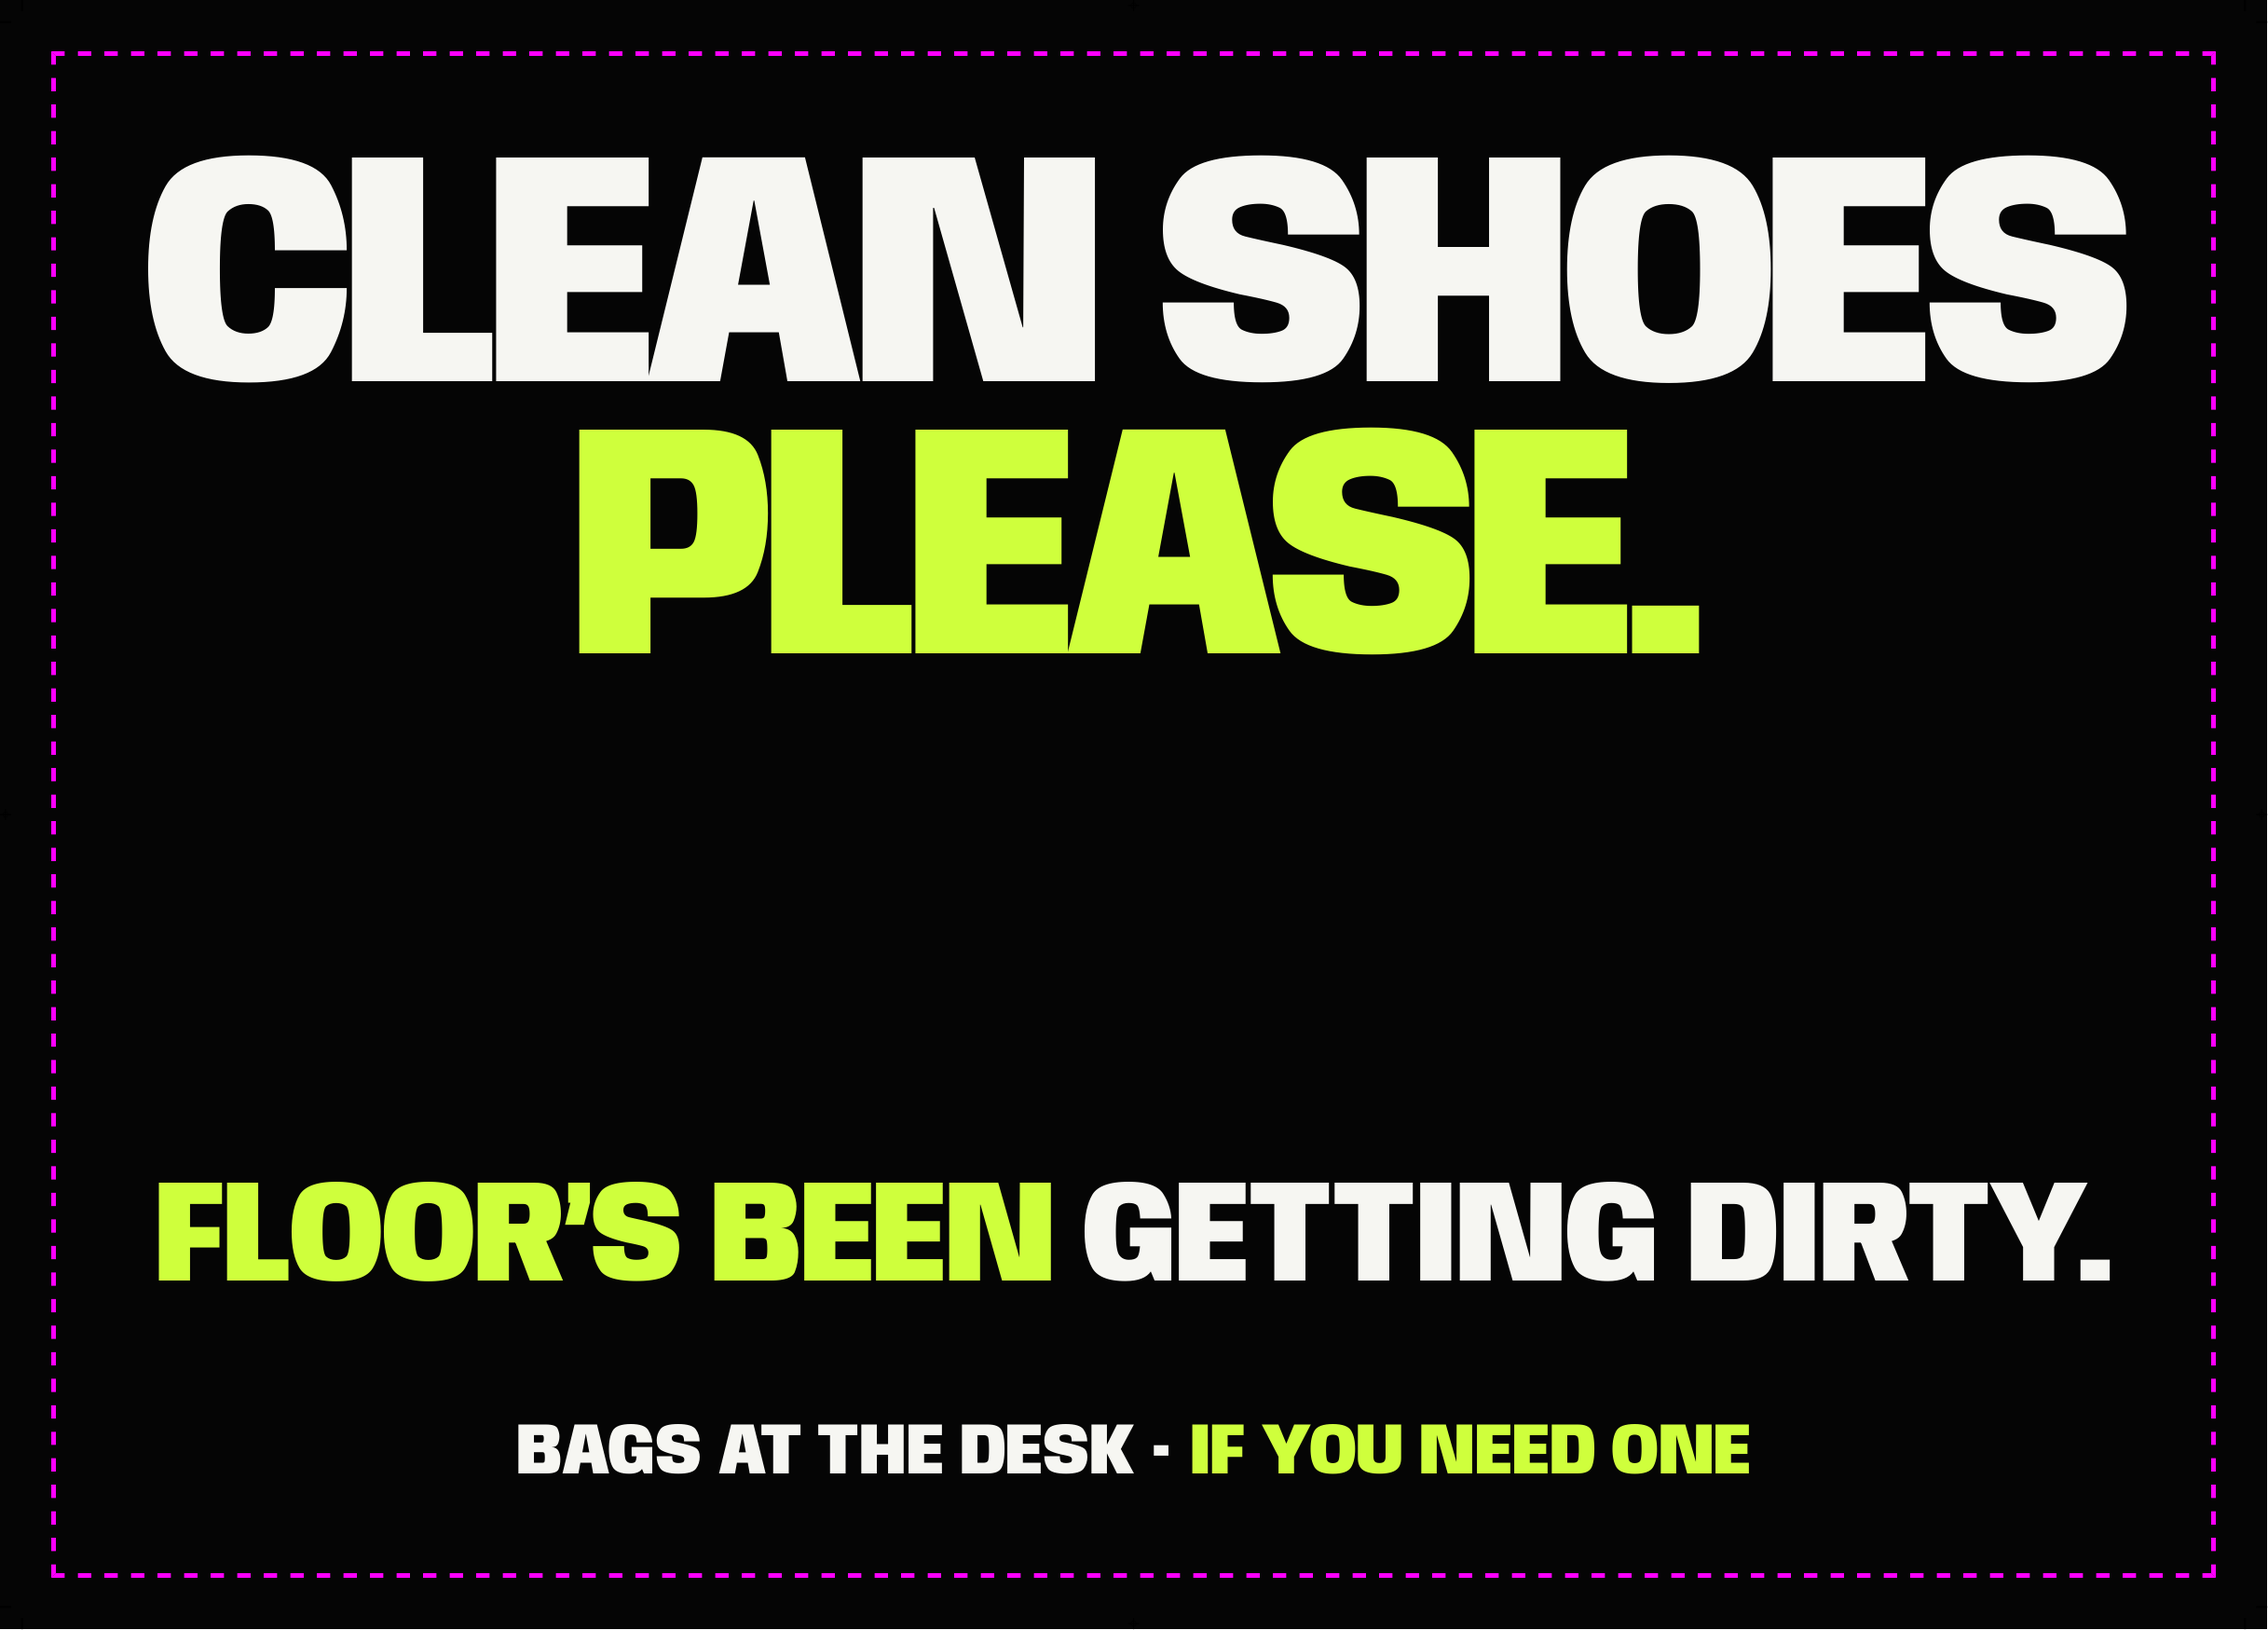
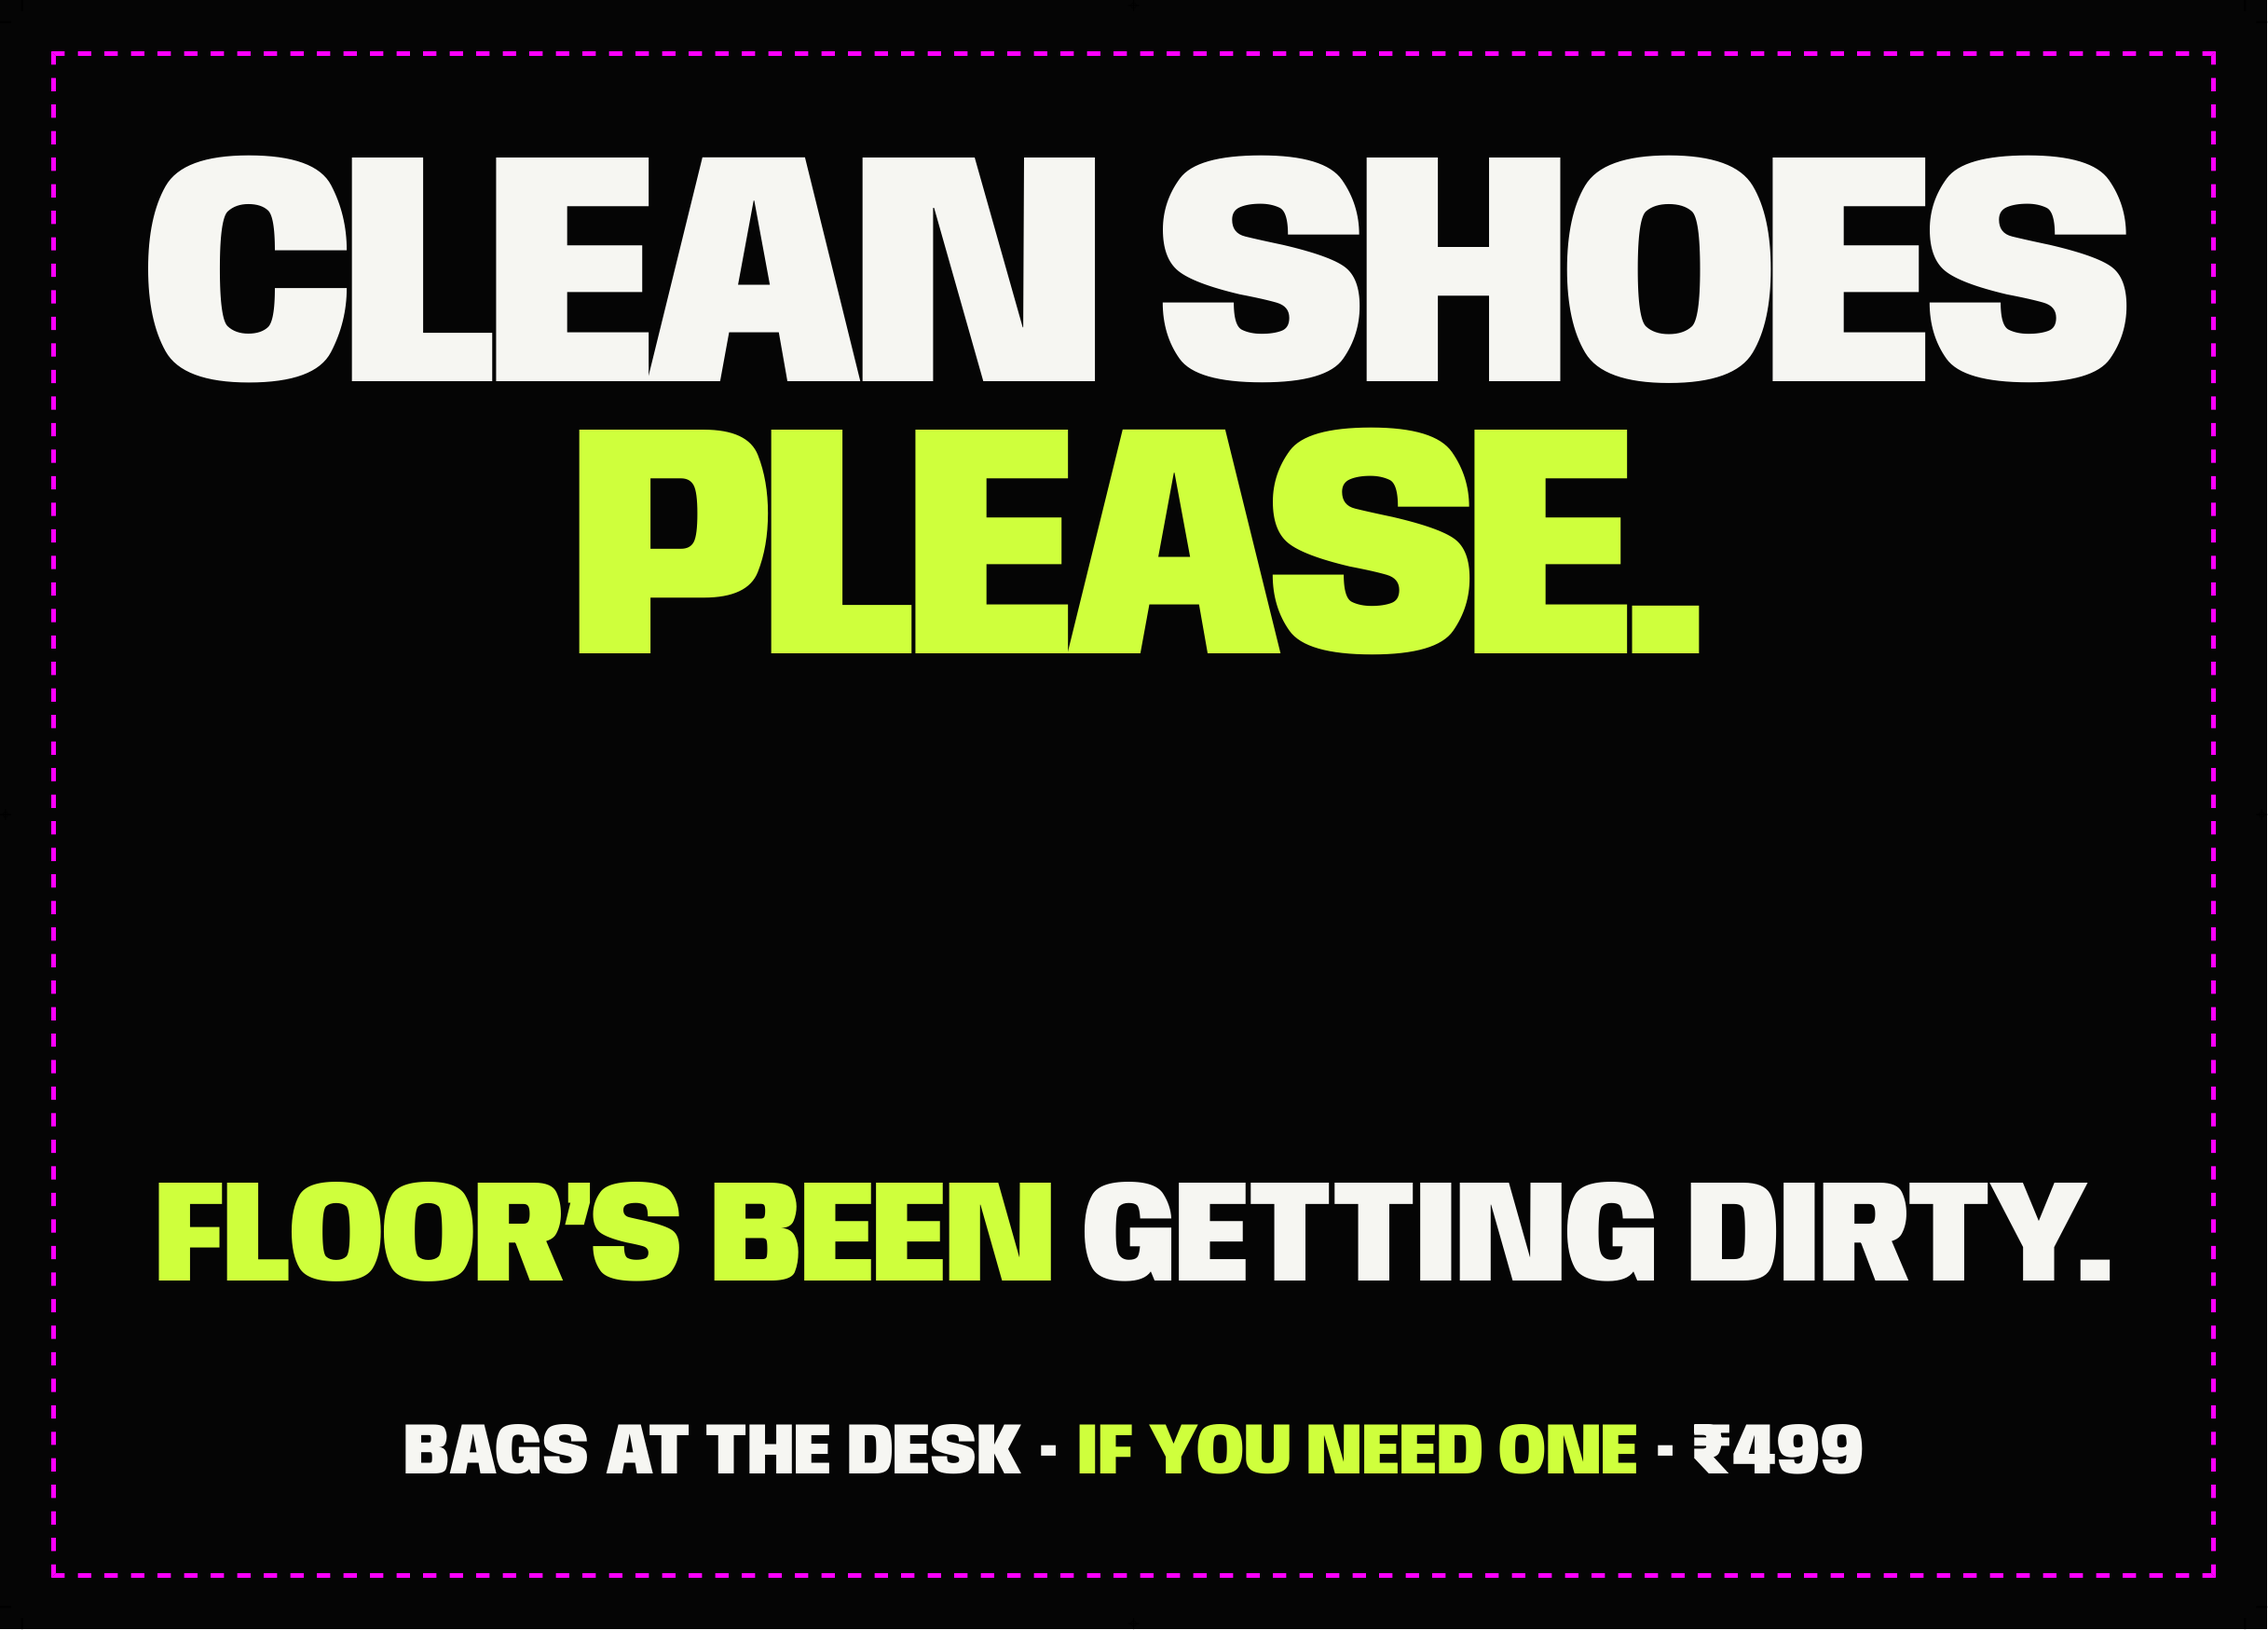
Shoes: drop ₹499 onto the tertiary info line
User: '499 on the last line.'

Note line now reads:
  BAGS AT THE DESK · IF YOU NEED ONE · ₹499

Sits at 28pt with the rest — informational, not sales-pitched. Price
appears once, at the smallest read-distance, exactly where 'oh by the
way' info belongs.

Changed region(s): [[0.1561, 0.8645, 0.8431, 0.9262]]

diff --git a/sticker_shoes.html b/sticker_shoes.html
@@ -123,7 +123,7 @@
 
     <!-- ACT 3 — the help -->
     <div class="note">
-      <b>BAGS AT THE DESK</b><span class="dot">&middot;</span>IF YOU NEED ONE
+      <b>BAGS AT THE DESK</b><span class="dot">&middot;</span>IF YOU NEED ONE<span class="dot">&middot;</span><b>&#8377;499</b>
     </div>
 
     <div class="cutline"></div>
